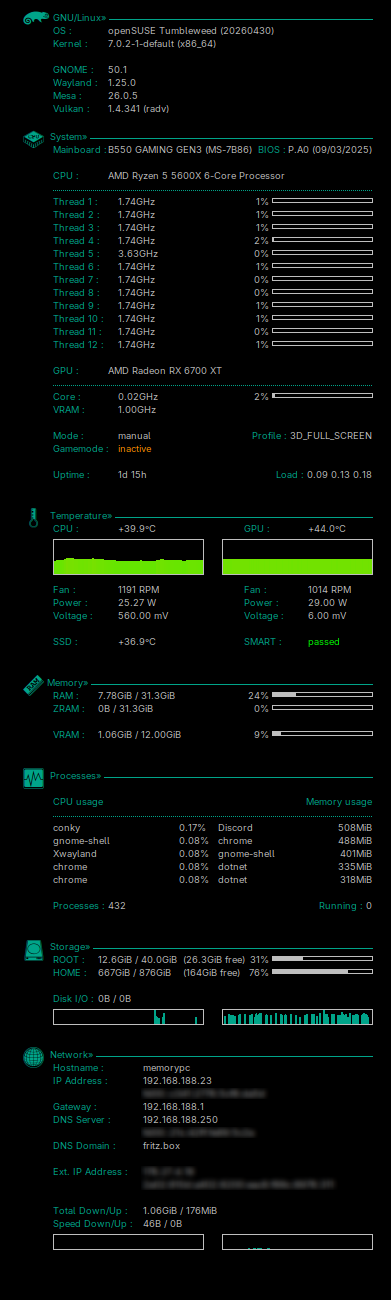
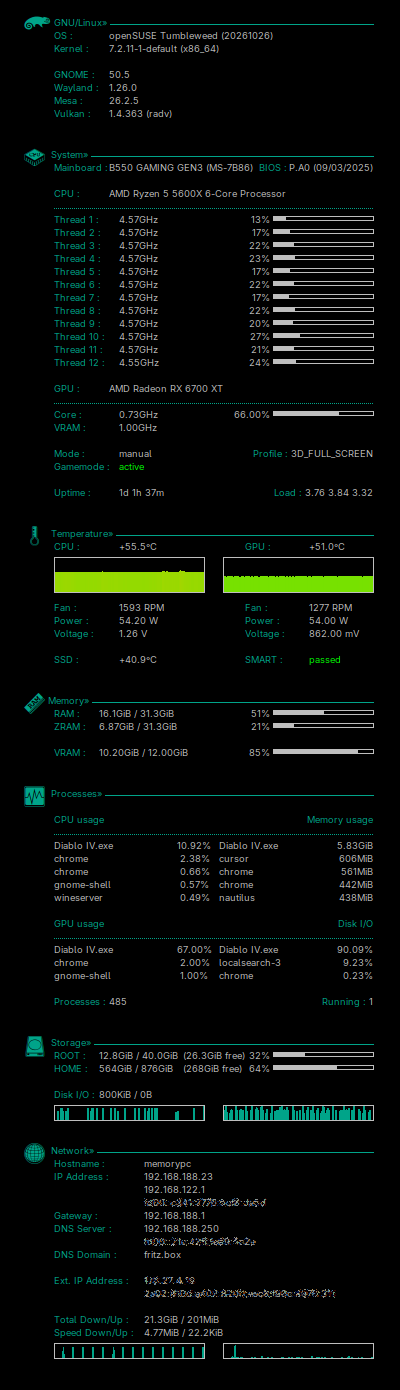
Version bump

Changed region(s): [[0.0614, 0.0, 0.9514, 0.9846], [0.9207, 0.9538, 0.9514, 0.9846], [0.0614, 0.3692, 0.0921, 0.4]]

diff --git a/README.md b/README.md
@@ -1,7 +1,7 @@
-# Gamer's Minimalist Conky 1.55
+# Gamer's Minimalist Conky 1.60
 
 **Author:** mendres (based on the script of archit3x - archit3x@archlinux.us)  
-**Release Date:** 5 May 2026  
+**Release Date:** 28 October 2026  
 **Tested on:** openSUSE Tumbleweed - GNOME Desktop  
 
 Feel free to modify this script!
@@ -18,6 +18,22 @@ Gamer's Minimalist Conky is a lightweight and customizable system monitor for yo
 - Customizable appearance
 - Lightweight and efficient
 - Displays essential system information
+- AMD GPU stats via `amdgpu_top` (clocks, VRAM, top GPU processes)
+- Disk I/O top processes via Conky `${top_io}`
+
+## Dependencies
+
+Required on openSUSE Tumbleweed (package names may differ elsewhere):
+
+- `conky`
+- `amdgpu_top`
+- `jq`
+- `sensors` (lm_sensors)
+- `vulkaninfo` (vulkan-tools)
+- `glxinfo` (Mesa-demo-x)
+- `turbostat` and `smartctl` (started via `pkexec` by the daemon script)
+
+Optional: `gamemoded` for the Gamemode status line.
 
 ## Installation
 
@@ -37,22 +53,21 @@ Gamer's Minimalist Conky is a lightweight and customizable system monitor for yo
     ```sh
     cp * ~/.config/conky
     ```
-5. Make both `.sh` files executable:
+5. Make the shell scripts executable:
     ```sh
     chmod +x ~/.config/conky/*.sh
     ```
-6. Start Conky by executing `conky-start.sh`:
+6. Start Conky:
     ```sh
-    ~/.config/conky/conky-start.sh
+    ~/.config/conky/conkyx-start.sh
     ```
-7. To get SMART status without root privileges:
-    ```sh
-    sudo setcap cap_sys_admin,cap_sys_rawio+ep /usr/sbin/smartctl
-    ```
+    The start script prompts for privileges (`pkexec`) so `conkyx-daemon.sh` can run `turbostat` and `smartctl`.
 
 ## Customization
 
 You can customize the appearance and behavior of Conky by editing the configuration files in the `~/.config/conky` directory. Refer to the [Conky documentation](https://github.com/brndnmtthws/conky/wiki) for more details on configuration options.
+
+Hardware-specific paths (for example `/sys/class/drm/card1`, `/dev/nvme0n1`, and dual-monitor `-x` offset) may need adjusting for your system.
 
 ## Contributing
 
@@ -65,4 +80,3 @@ This project is licensed under the MIT License. See the [LICENSE](LICENSE) file 
 ---
 
 Enjoy your Gamer's Minimalist Conky setup!
-
